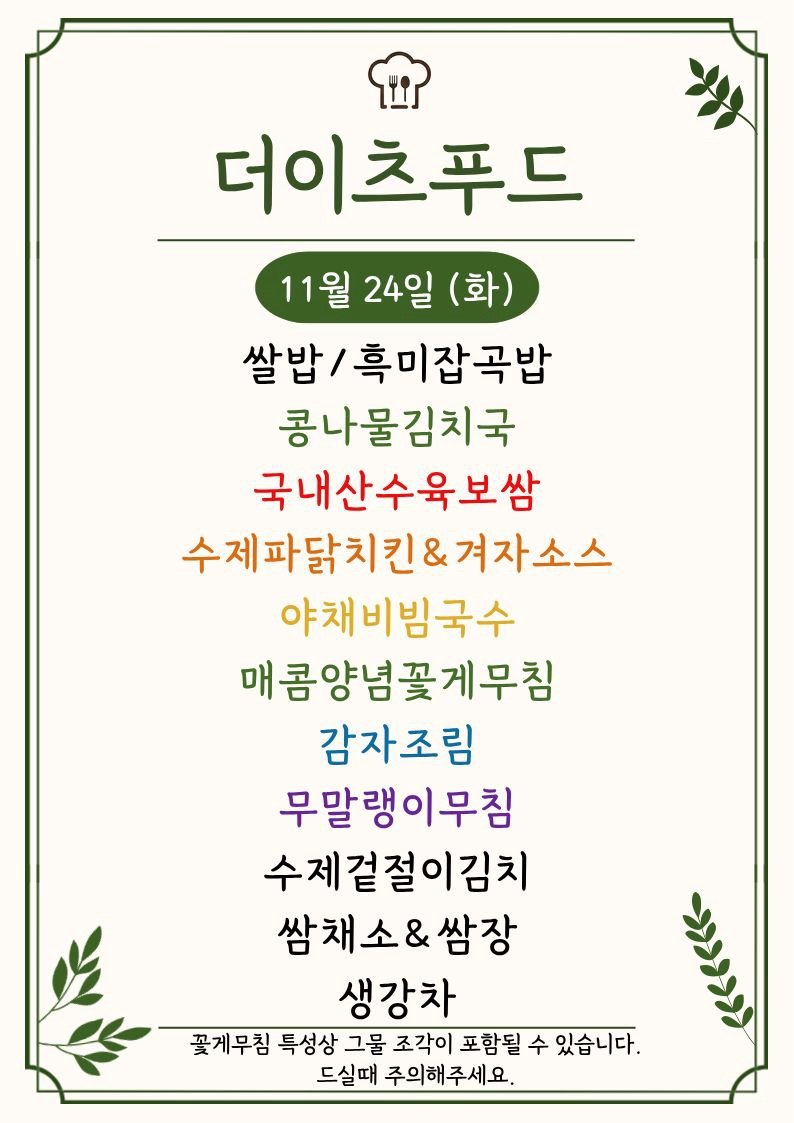
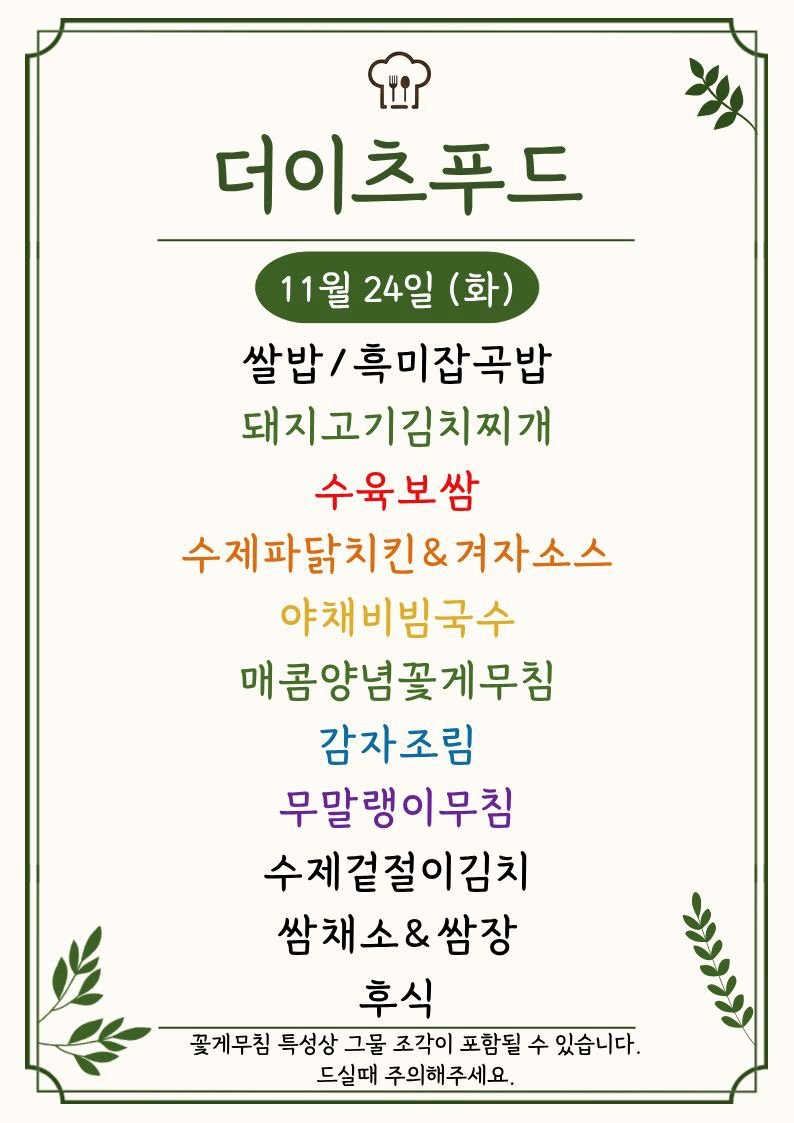
Update menu board assets

Changed region(s): [[0.3023, 0.3428, 0.6952, 0.4675], [0.4232, 0.8727, 0.5743, 0.9038]]

diff --git a/guro-menu/index.html b/guro-menu/index.html
@@ -32,7 +32,7 @@
   </header>
   <section class="meta">
     <div><small>기준 날짜</small><strong>2026년 11월 24일 화요일</strong></div>
-    <div><small>최종 갱신</small><strong>2026-11-24 09:40:35</strong></div>
+    <div><small>최종 갱신</small><strong>2026-11-24 09:54:16</strong></div>
     <div><small>등록 식당</small><strong>5개</strong></div>
   </section>
   <div class="notice">공개 카카오 채널의 메뉴 이미지를 자동 수집하고 OCR로 정리합니다. 텍스트에 오타가 있을 수 있으니 식단 이미지를 함께 확인해 주세요.</div>
@@ -76,7 +76,7 @@
         </div>
         <img class="menu-image" src="./images/the-eats-food.png" alt="더이츠푸드 식단 이미지" loading="lazy">
         
-        <ul><li>더이츠푸느</li><li>쌀밥/흑미잡곡밥</li><li>콩나물김치국</li><li>국내산수육보쌈</li><li>수제파닭치킨&amp;겨자소스</li><li>매콤양념꽃게무침</li><li>감자조림</li><li>무말랭이무침</li><li>수제겉절이김치</li><li>쌈채소&amp;쌈장 %</li><li>생강차 %</li></ul>
+        <ul><li>더이츠푸느</li><li>쌀밥/흑미잡곡밥</li><li>돼지고기김치찌개</li><li>수육보쌈</li><li>수제파닭치킨&amp;겨자소스</li><li>매콤양념꽃게무침</li><li>감자조림</li><li>무말랭이무침</li><li>수제겉절이김치</li><li>쌈채소&amp;쌈장 %</li></ul>
       </article>
 
       <article class="restaurant-card">

diff --git a/menu-today/index.html b/menu-today/index.html
@@ -209,7 +209,7 @@
 
     <section class="meta-bar">
       <div class="meta-card"><div class="meta-label">기준 날짜</div><div class="meta-value">2026년 11월 24일 화요일</div></div>
-      <div class="meta-card"><div class="meta-label">최종 가져온 시간</div><div class="meta-value">2026-11-24 09:40:24</div></div>
+      <div class="meta-card"><div class="meta-label">최종 가져온 시간</div><div class="meta-value">2026-11-24 09:54:01</div></div>
       <div class="meta-card"><div class="meta-label">확인 완료</div><div class="meta-value">9개 식당</div></div>
       <div class="meta-card"><div class="meta-label">준비중</div><div class="meta-value">3개 채널</div></div>
     </section>
